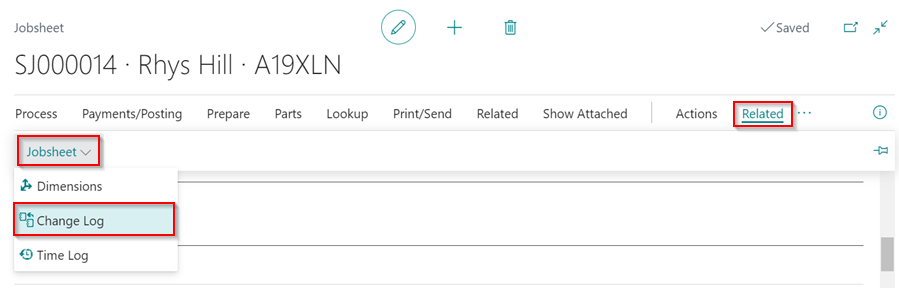
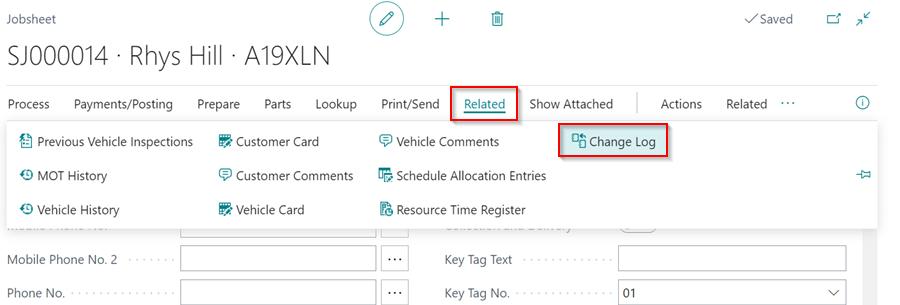
change log entries update

diff --git a/docs/testarticle2.md b/docs/testarticle2.md
@@ -20,6 +20,10 @@ The Change Log feature is useful for tracking data changes in your Garage Hive d
 2. This enables the tracking of all and some fields in the service document, such as the **General** FastTab fields, **Vehicle Reminder Dates** fields, **Group Item** fields, **Service Comment Line** fields and **Service Lines** fields.
 
 ## View Changes Made in a Service Documents
-1. To view the changes made, open the document on which you want to track the changes, click **More Options** in the menu bar, then select **Related**, **Jobsheet**, and then **Change Log**.
+1. To view the changes made, open the document on which you want to track the changes, click **Related** in the menu bar, then select **Change Log**.
 
    ![](media/change-log-setup3.png)
+
+2. The document's changes will be shown.
+
+   ![](media/change-log-setup4.png)
